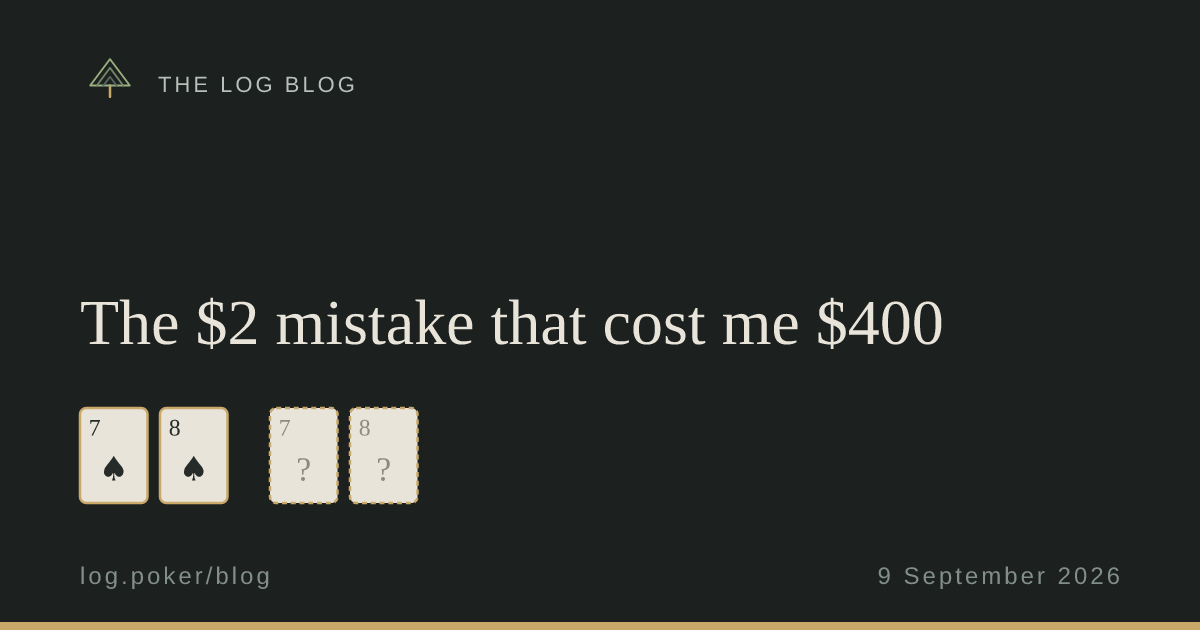
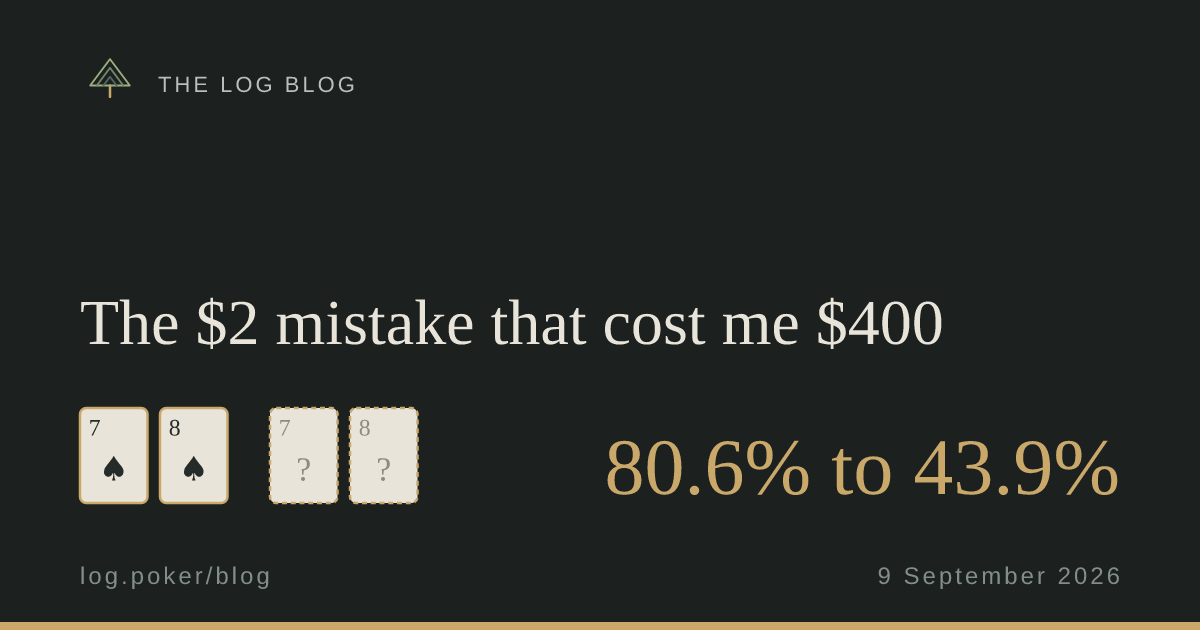
Put each post's headline number on its share card
Every share card now carries the post's first ::: stat in gold. Cards
with a hand show it beside the cards, where the right half used to be
empty; the two essays with no hand show it large under the title, so a
link to them unfurls as a picture rather than a title on a dark field.
The stop loss post gains a stat block for this (1 in 33 sessions finish
two buy-ins down). Also refreshes the README test table for the new
share-row test, which was failing the check job.

Claude-Session: https://claude.ai/code/session_013zgjcjmocR3PYZ3t3e5ST7

Changed region(s): [[0.4933, 0.6937, 0.9558, 0.7841]]

diff --git a/README.md b/README.md
@@ -344,7 +344,9 @@ npm run build:og            # public/og/<slug>.png, and og/blog.png for the inde
 
 The card opens on the hand the post is about: the cards its figure marks as
 played, the two that were mine and then what the board gave, drawn by the same
-code as the diagram in the post. A post with no figure gets its title alone.
+code as the diagram in the post, with the post's first `::: stat` in gold
+beside it. A post with no figure opens on that stat alone, under the title, and
+a post with neither gets its title alone.
 
 Run it after adding a post and commit the PNG. It needs `@resvg/resvg-js`,
 which is a dev dependency and deliberately nothing the deploy touches.
@@ -1103,7 +1105,7 @@ errors are asserted once, so a bug cannot reproduce on only one platform.
 
 ```
 Test Suites: 113 passed
-Tests:       2433 passed
+Tests:       2434 passed
 
   dexieRepository       153   the IndexedDB path, against real IndexedDB
   sqlRepository         150   the SQLite path, against real SQLite
@@ -1121,7 +1123,7 @@ Tests:       2433 passed
   endpoint               49   the sync endpoint, end to end
   values                 47   money, dates, durations, stakes, formats, counts
   variance               46   win rate, σ, confidence bands, verdicts
-  blog                   41   the post grammar, the share cards, and what it refuses
+  blog                   42   the post grammar, the share cards, and what it refuses
   migrations             41   a filled v2 database walked forward, both engines
   mood                   35   what tilt costs, and when to say nothing
   handHistory            33   reading six sites' hand histories, the money worked out by hand

diff --git a/content/blog/2026-10-01-the-loss-is-complete.md b/content/blog/2026-10-01-the-loss-is-complete.md
@@ -44,7 +44,11 @@ The money is not lost by standing up. It was lost in the hands. Standing up is t
 
 I count in buy-ins, not dollars, because it scales with the game and because it matches the physical moment: reaching for more money.
 
-For the example player, losing two full buy-ins over a six hour session happens about one session in 33. Losing three happens about one session in 280. A genuine winner hits those numbers sometimes, so reaching the stop is not proof that I played badly. But it is rare enough that when it happens, something besides ordinary bad luck is worth suspecting, and the decision about what to do next should be made by somebody calm.
+::: stat 1 in 33
+How often the example player finishes a six hour session two full buy-ins down. Three buy-ins down is about one session in 280.
+:::
+
+A genuine winner hits those numbers sometimes, so reaching the stop is not proof that I played badly. But it is rare enough that when it happens, something besides ordinary bad luck is worth suspecting, and the decision about what to do next should be made by somebody calm.
 
 Two buy-ins or three is a personal choice, and it should fit your bankroll. If a single day can take a big bite out of your roll, the [bankroll guide](/bankroll) is the better place to start than this post.
 
